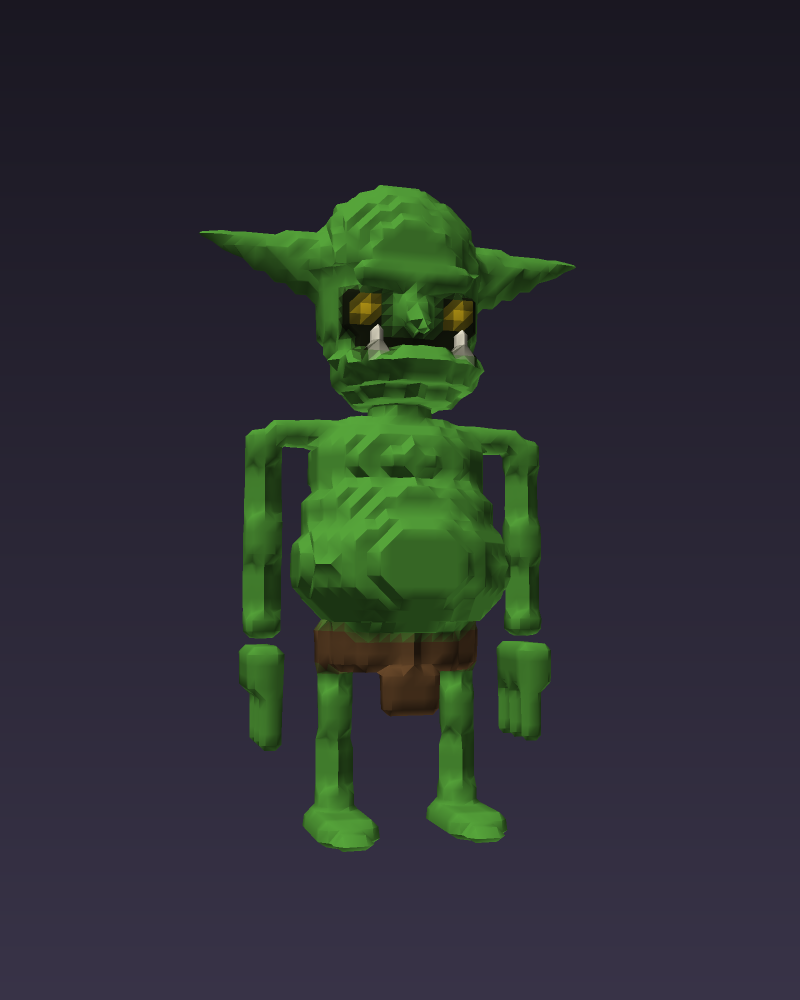
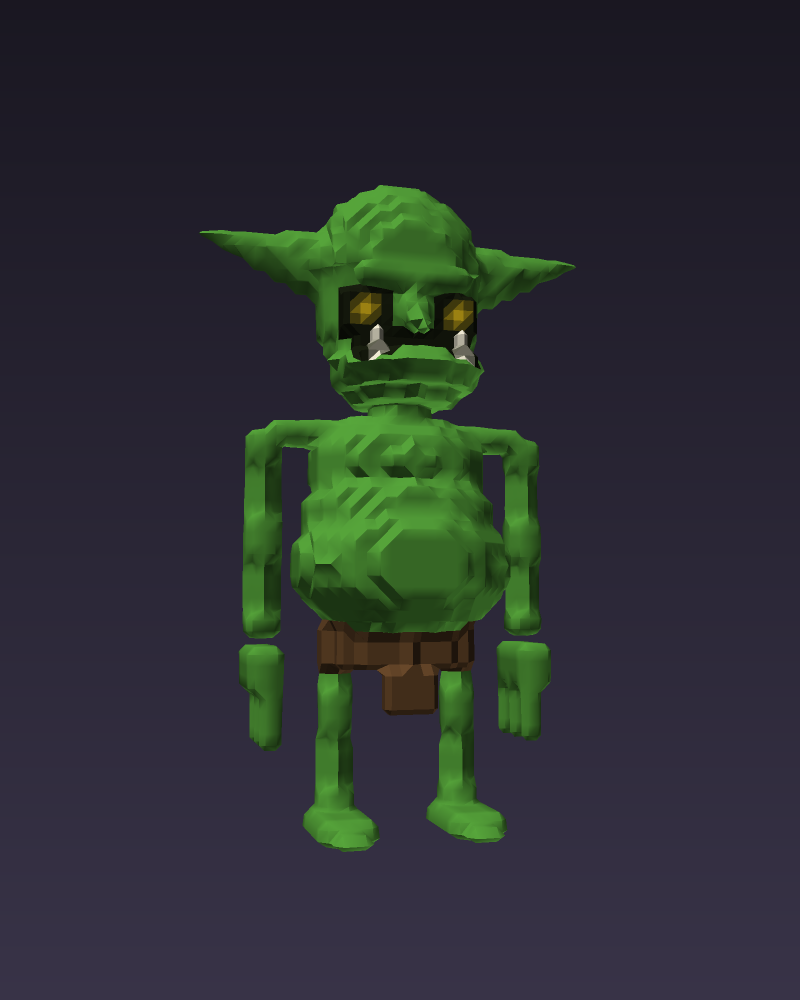
Hard materials: a first-class paradigm for hard lines
Palette bindings accept a 'hard' flag (LANG.md §3): hard-sourced mesh
vertices snap to half-voxel positions (per-material flat mode),
triangles touching a hard voxel take its exact color instead of
blending across the boundary, and hard surfaces shade flat while soft
neighbors keep smooth normals. One declaration covers what previously
took manual sharp zones and dark-liner hacks: teeth, eye glow, cloth
hems, cavity walls.

Threaded through render.py (parse, grids, MC, base_colors,
smooth_normals, both render paths) and fxl2gltf.py. Generators declare
hard for fangs/teeth, eyes, dark walls, and the goblin loincloth, and
the goblin strips shells adjacent to hard voxels automatically.
AGENTS.md documents the paradigm; media refreshed.

diff --git a/render.py b/render.py
@@ -210,13 +210,18 @@ def parse_fxl(path):
                     err(lineno, 'bad palette character %r' % lhs)
                 if lhs in palette or lhs in joints:
                     err(lineno, 'duplicate palette binding %r' % lhs)
-                if not COLOR_RE.match(rhs):
-                    err(lineno, 'malformed color %r' % rhs)
-                r, g, b = (int(rhs[i:i + 2], 16) for i in (0, 2, 4))
-                a = int(rhs[6:8], 16) if len(rhs) == 8 else 255
+                cparts = rhs.split()
+                is_hard = len(cparts) == 2 and cparts[1] == 'hard'
+                if len(cparts) > 1 and not is_hard:
+                    err(lineno, 'malformed palette binding %r' % rhs)
+                cval = cparts[0]
+                if not COLOR_RE.match(cval):
+                    err(lineno, 'malformed color %r' % cval)
+                r, g, b = (int(cval[i:i + 2], 16) for i in (0, 2, 4))
+                a = int(cval[6:8], 16) if len(cval) == 8 else 255
                 if a == 0:
                     err(lineno, "alpha of zero is not allowed, use '.'")
-                palette[lhs] = (r, g, b, a)
+                palette[lhs] = (r, g, b, a, is_hard)
         else:
             if cur_ref is not None:
                 err(lineno, 'grid row after a reference in the same slot')
@@ -283,22 +288,24 @@ def build_grids(palette, layers):
         raise FxlError('model is empty')
     dens = np.zeros((w + 2, h + 2, d + 2), np.uint8)
     col = np.zeros((w + 2, h + 2, d + 2, 3), np.uint8)
+    hard = np.zeros((w + 2, h + 2, d + 2), bool)
     for y, rows in enumerate(layers):
         for z, row in enumerate(rows):
             for x, ch in enumerate(row):
                 if ch in palette:
-                    r, g, b, a = palette[ch]
+                    r, g, b, a, hd = palette[ch]
                     dens[x + 1, y + 1, z + 1] = a
                     col[x + 1, y + 1, z + 1] = (r, g, b)
-    return dens, col
+                    hard[x + 1, y + 1, z + 1] = hd
+    return dens, col, hard
 
 
-def marching_cubes(dens, col, flat=False):
+def marching_cubes(dens, col, flat=False, hard=None):
     """IMPL.md §5-7. Returns (tri_pos, tri_col): float arrays (n, 3, 3).
     Positions are in voxel units; densities sit at voxel centers, hence the
     +0.5 offset (IMPL.md §6). World origin matches FXL coordinates."""
     corner = np.array(VERTICES_POSITIONS, float)
-    tris, cols = [], []
+    tris, cols, hards = [], [], []
     nx, ny, nz = dens.shape
     for cx in range(nx - 1):
         for cy in range(ny - 1):
@@ -314,6 +321,7 @@ def marching_cubes(dens, col, flat=False):
                     continue
                 vpos = [None] * 12
                 vcol = [None] * 12
+                vhard = [False] * 12
                 for e in range(12):
                     if not (edges & (1 << e)):
                         continue
@@ -321,12 +329,15 @@ def marching_cubes(dens, col, flat=False):
                     f0, f1 = d[v0] / 255.0, d[v1] / 255.0
                     mu = (f0 - 0.5) / (f0 - f1)
                     p = corner[v0] * (1 - mu) + corner[v1] * mu
-                    if flat:
-                        p = np.round(p * 2) / 2
-                    vpos[e] = p
                     src = v0 if d[v0] > d[v1] else v1
                     dx, dy, dz = VERTICES_POSITIONS[src]
+                    h = bool(hard[cx + dx, cy + dy, cz + dz]) \
+                        if hard is not None else False
+                    if flat or h:
+                        p = np.round(p * 2) / 2
+                    vpos[e] = p
                     vcol[e] = col[cx + dx, cy + dy, cz + dz]
+                    vhard[e] = h
                 base = np.array([cx - 1 + 0.5, cy - 1 + 0.5, cz - 1 + 0.5])
                 row = MC_TRI_TABLE[cube_index]
                 for i in range(0, 16, 3):
@@ -334,15 +345,16 @@ def marching_cubes(dens, col, flat=False):
                         break
                     tris.append([base + vpos[row[i + k]] for k in range(3)])
                     cols.append([vcol[row[i + k]] for k in range(3)])
+                    hards.append([vhard[row[i + k]] for k in range(3)])
     if not tris:
         raise FxlError('no surface generated (all voxels below iso?)')
-    return np.array(tris), np.array(cols, float)
+    return np.array(tris), np.array(cols, float), np.array(hards, bool)
 
 
 # ---------------------------------------------------------------------------
 # Minimal software renderer: perspective camera, z-buffer, flat shading.
 
-def smooth_normals(tri_pos, crease_deg=50.0):
+def smooth_normals(tri_pos, crease_deg=50.0, tri_hard=None):
     """Crease-aware per-corner normals: weld shared vertices and average
     face normals across edges gentler than crease_deg, keeping hard
     edges (teeth, ribs, socket rims) sharp while curved regions (skull
@@ -357,14 +369,33 @@ def smooth_normals(tri_pos, crease_deg=50.0):
     bounds = np.flatnonzero(np.diff(inv[order])) + 1
     cos_t = math.cos(math.radians(crease_deg))
     corner_face = np.arange(len(verts)) // 3
+    face_hard = tri_hard.any(1) if tri_hard is not None \
+        else np.zeros(len(tri_pos), bool)
     out = np.empty_like(verts)
     for g in np.split(order, bounds):
-        fns = fn[corner_face[g]]
-        m = fns @ fns.T > cos_t
+        faces = corner_face[g]
+        fns = fn[faces]
+        hardf = face_hard[faces]
+        m = (fns @ fns.T > cos_t) & ~hardf[None, :]
         avg = m.astype(float) @ fns
+        bad = np.linalg.norm(avg, axis=1) < 1e-9
+        avg[bad | hardf] = fns[bad | hardf]
         avg /= np.maximum(np.linalg.norm(avg, axis=1, keepdims=True), 1e-12)
         out[g] = avg
     return out.reshape(-1, 3, 3)
+
+
+def base_colors(tri_col, tri_hard=None):
+    """Per-triangle base color. Hard-material corners dominate: a
+    triangle touching a hard voxel takes the mean of its HARD corners
+    only, so hard/soft color boundaries stay crisp."""
+    mean_all = tri_col.mean(1)
+    if tri_hard is None or not tri_hard.any():
+        return mean_all / 255.0
+    hc = tri_hard[..., None].astype(float)
+    n = tri_hard.sum(1)
+    hard_mean = (tri_col * hc).sum(1) / np.maximum(n, 1)[:, None]
+    return np.where((n > 0)[:, None], hard_mean, mean_all) / 255.0
 
 
 def rotmat(yaw_deg, pitch_deg):
@@ -394,7 +425,7 @@ def make_cam(tri_pos, width, height, yaw_deg, pitch_deg, ss=2):
 
 
 def render(tri_pos, tri_col, width, height, yaw_deg, pitch_deg, ss=2,
-           rig=None, cam=None, tri_norm=None):
+           rig=None, cam=None, tri_norm=None, tri_hard=None):
     w, h = width * ss, height * ss
     rot = rotmat(yaw_deg, pitch_deg)
     if cam is None:
@@ -413,7 +444,7 @@ def render(tri_pos, tri_col, width, height, yaw_deg, pitch_deg, ss=2,
     # (per-corner normals interpolated) when tri_norm is provided.
     light = np.array([-0.45, 0.8, 0.5])
     light /= np.linalg.norm(light)
-    base = tri_col.mean(1) / 255.0
+    base = base_colors(tri_col, tri_hard)
     if tri_norm is not None:
         cshade = 0.25 + 0.75 * np.abs(tri_norm @ light)
         tcol = None
@@ -830,8 +861,10 @@ def main():
     try:
         palette, layers, (joints, bones, anims, hints) = \
             parse_fxl(args.input)
-        dens, col = build_grids(palette, layers)
-        tri_pos, tri_col = marching_cubes(dens, col, flat=args.flat)
+        dens, col, hard = build_grids(palette, layers)
+        tri_pos, tri_col, tri_hard = marching_cubes(dens, col,
+                                                    flat=args.flat,
+                                                    hard=hard)
     except FxlError as e:
         sys.exit('error: %s' % e)
 
@@ -854,7 +887,7 @@ def main():
         rest = {c: (p[0] + 0.5, p[1] + 0.5, p[2] + 0.5)
                 for c, p in joints.items()}
         bind = skin_bind(tri_pos, dens, rest, bones)
-        rest_norm = smooth_normals(tri_pos)
+        rest_norm = smooth_normals(tri_pos, tri_hard=tri_hard)
         cam = make_cam(tri_pos, args.width, args.height,
                        args.yaw, args.pitch)
         n = max(2, int(round(anim['duration'] * args.fps)))
@@ -870,7 +903,7 @@ def main():
             frames.append(render(fpos, tri_col,
                                  args.width, args.height,
                                  args.yaw, args.pitch, cam=cam,
-                                 tri_norm=fnorm))
+                                 tri_norm=fnorm, tri_hard=tri_hard))
             print('frame %d/%d' % (i + 1, n))
         out = args.output or re.sub(r'\.fxl$', '', args.input) \
             + '_%s.png' % args.anim
@@ -887,7 +920,8 @@ def main():
                [(jw[c1], jw[c2]) for _, c1, c2, _f in bones])
     img = render(tri_pos, tri_col, args.width, args.height,
                  args.yaw, args.pitch, rig=rig,
-                 tri_norm=smooth_normals(tri_pos))
+                 tri_norm=smooth_normals(tri_pos, tri_hard=tri_hard),
+                 tri_hard=tri_hard)
     write_png(out, img)
     print('wrote %s (%dx%d)' % (out, args.width, args.height))
 

diff --git a/make_goblin.py b/make_goblin.py
@@ -158,11 +158,11 @@ for side in (-1, 1):
 for yy in (16, 17, 18):
     fill_ellipse(yy, CX, CZ, 6.5, 4.0, 'g')
 for yy in (15, 16, 17, 18):                        # loincloth band
-    fill_ellipse(yy, CX, CZ, 7.5, 5.0, 'b')
+    fill_ellipse(yy, CX, CZ, 7.5, 5.0, 'b', halo=False)
 for yy in range(11, 15):                           # front flap
     for xx in range(20, 25):
         for zz in (15, 16):
-            put(xx, yy, zz, 'b')
+            put(xx, yy, zz, 'b', halo=False)
 
 # ---- pot belly, chest, hunch ----------------------------------------------
 soft_ellipsoid(CX, 24, CZ + 1.5, 9.5, 6.5, 7.5)    # belly
@@ -292,6 +292,16 @@ SHARP_ZONES = [
     (15, 20, 45, 50, 14, 21),   # left eye
     (24, 29, 45, 50, 14, 21),   # right eye
 ]
+hardm = np.isin(g, list('btys'))
+near_hard = np.zeros_like(hardm)
+for _dx in (-1, 0, 1):
+    for _dy in (-1, 0, 1):
+        for _dz in (-1, 0, 1):
+            if (_dx, _dy, _dz) != (0, 0, 0):
+                near_hard |= _shift(hardm, _dx, _dy, _dz)
+shellm = np.isin(g, list(SHELL_CHARS))
+g[shellm & near_hard] = '.'
+
 for x0, x1, y0, y1, z0, z1 in SHARP_ZONES:
     for x in range(x0, x1 + 1):
         for y in range(y0, y1 + 1):
@@ -360,10 +370,10 @@ out.append('r = 58A83C83        # skin grade, alpha 131')
 for ci, al in enumerate(SHELL_ALPHAS):
     out.append('%s = 58A83C%02X        # density shell %d, alpha %d'
                % (SHELL_CHARS[ci], al, ci + 1, al))
-out.append('b = 6B4A2B          # loincloth, brown')
-out.append('t = F5EFD8          # fangs')
-out.append('s = 1A2010C8        # mouth/socket back walls, dark')
-out.append('y = FFD41E          # eye glow, yellow')
+out.append('b = 6B4A2B hard     # loincloth, brown')
+out.append('t = F5EFD8 hard     # fangs')
+out.append('s = 1A2010C8 hard   # mouth/socket back walls, dark')
+out.append('y = FFD41E hard     # eye glow, yellow')
 out.append('')
 JOINT_NAMES = {
     'a': 'ankle_l', 'A': 'ankle_r', 'm': 'toe_l', 'M': 'toe_r',

diff --git a/fxl2gltf.py b/fxl2gltf.py
@@ -84,8 +84,9 @@ def main():
     try:
         palette, layers, (joints, bones, anims, hints) = \
             render.parse_fxl(args.input)
-        dens, col = render.build_grids(palette, layers)
-        tri_pos, tri_col = render.marching_cubes(dens, col)
+        dens, col, hard = render.build_grids(palette, layers)
+        tri_pos, tri_col, tri_hard = render.marching_cubes(dens, col,
+                                                           hard=hard)
     except render.FxlError as e:
         sys.exit('error: %s' % e)
 
@@ -94,9 +95,9 @@ def main():
 
     glb = Glb()
     verts = tri_pos.reshape(-1, 3).astype(np.float32) * s
-    normals = render.smooth_normals(tri_pos).reshape(-1, 3) \
-        .astype(np.float32)
-    colors = np.repeat(tri_col.mean(axis=1) / 255.0, 3,
+    normals = render.smooth_normals(tri_pos, tri_hard=tri_hard) \
+        .reshape(-1, 3).astype(np.float32)
+    colors = np.repeat(render.base_colors(tri_col, tri_hard), 3,
                        axis=0).astype(np.float32)
 
     attributes = {

diff --git a/make_skeleton.py b/make_skeleton.py
@@ -446,9 +446,9 @@ out.append('b = F0EAD6C0        # soft bone, alpha 192')
 out.append('h = F0EAD640        # halo shell 1, alpha 64 (sub-threshold)')
 out.append('i = F0EAD61C        # halo shell 2, alpha 28')
 out.append('j = F0EAD60C        # halo shell 3, alpha 12')
-out.append('t = FBFBF2          # teeth')
-out.append('e = 16161CC8        # socket back wall: dark, recessed')
-out.append('r = FF2626          # eye glow: red dots in the sockets')
+out.append('t = FBFBF2 hard     # teeth')
+out.append('e = 16161CC8 hard   # socket back wall: dark, recessed')
+out.append('r = FF2626 hard     # eye glow: red dots in the sockets')
 out.append('')
 out.append('# animation rig: joints are marked in the layers below with')
 out.append('# sudoku border notation (LANG.md section 7)')

diff --git a/AGENTS.md b/AGENTS.md
@@ -48,11 +48,14 @@ grid before meshing:
 ```python
 import render
 palette, layers, (joints, bones, anims, hints) = render.parse_fxl('skeleton.fxl')
-dens, col = render.build_grids(palette, layers)
+dens, col, hard = render.build_grids(palette, layers)
 dens = dens[:, 64:, :].copy(); col = col[:, 64:, :].copy()  # head only
+hard = hard[:, 64:, :].copy()
 dens[:, 0, :] = 0                                # cap the cut cleanly
-tp, tc = render.marching_cubes(dens, col)
-render.write_png('head.png', render.render(tp, tc, 800, 800, 16, -4))
+tp, tc, th = render.marching_cubes(dens, col, hard=hard)
+tn = render.smooth_normals(tp, tri_hard=th)
+render.write_png('head.png',
+    render.render(tp, tc, 800, 800, 16, -4, tri_norm=tn, tri_hard=th))
 ```
 
 To render a single animation pose, copy the loop body from `render.py`
@@ -87,11 +90,15 @@ drift between frames).
   shells can't fog them; dark back-wall voxels make them read black.
   1-voxel features get color-averaged into invisibility — make dark
   features 2+ voxels or use carved holes.
-- **Color isolation**: MC triangle color is the mean of its corners, so
-  a bright feature voxel (eye glow, tooth) that touches skin bleeds a
-  soft halo of its color. Line such features with dark cells on every
-  face that would touch skin — the bleed becomes a dark outline, which
-  reads as intentional (eyeliner, gums).
+- **Hard materials are the paradigm for hard lines** (LANG.md §3):
+  `t = F5EFD8 hard` in the palette. Hard-sourced vertices snap to the
+  half-voxel grid, triangles touching a hard voxel take its exact
+  color (no blending — this is what stops eye/tooth color bleed), and
+  hard surfaces shade flat. Use for teeth, eyes, cloth hems, dark
+  cavity walls. Generators should also build hard materials with
+  `halo=False` and strip shells adjacent to hard voxels (see
+  make_goblin.py). Dark liner cells remain useful when you WANT an
+  outline (eyeliner, gums) rather than a raw color border.
 - Sub-threshold shells carry NO connectivity: a limb "attached" only
   through shell voxels is visually detached. Solid paths only. The
   inverse also bites: solids closer than ~3 voxels visually WELD as

diff --git a/LANG.md b/LANG.md
@@ -72,6 +72,13 @@ By convention the whole palette goes at the top of the file. A trailing
   `:`, `*`, and whitespace.
 - `<color>` is 6 or 8 hex digits (case-insensitive): red, green, blue,
   and optional alpha. Alpha defaults to `FF` (255).
+- A binding may end with the word **`hard`**: `t = F5EFD8 hard`. Hard
+  materials render with crisp edges: their mesh vertices snap to
+  half-voxel positions (IMPL.md §6 flat mode, applied per material),
+  triangles touching a hard voxel take its exact color instead of
+  blending across the boundary, and their surfaces shade flat. Use it
+  for teeth, eyes, cloth hems, blades — anything that should read as a
+  hard line against soft surroundings. Default is soft.
 - Alpha is **density**, matching goxel's model (see IMPL.md §1): 255 is
   a full voxel; intermediate values produce softer surfaces under
   marching-cubes rendering. Alpha `00` is not allowed — use `.`.
@@ -290,7 +297,7 @@ Applied after comment stripping and blank-line removal:
 ```ebnf
 file      = { palette | jointdecl | bonedecl } ,
             [ slot , { "---" , slot } , [ "---" ] ] ;
-palette   = char , "=" , color ;
+palette   = char , "=" , color , [ "hard" ] ;
 jointdecl = char , "=" , "joint" , [ name ] , [ bend ] ;
 bonedecl  = name , "=" , "bone" , char , char , [ bend ] ;
 animslot  = animhead , { keyframe } ;      (* a slot form, like def *)
